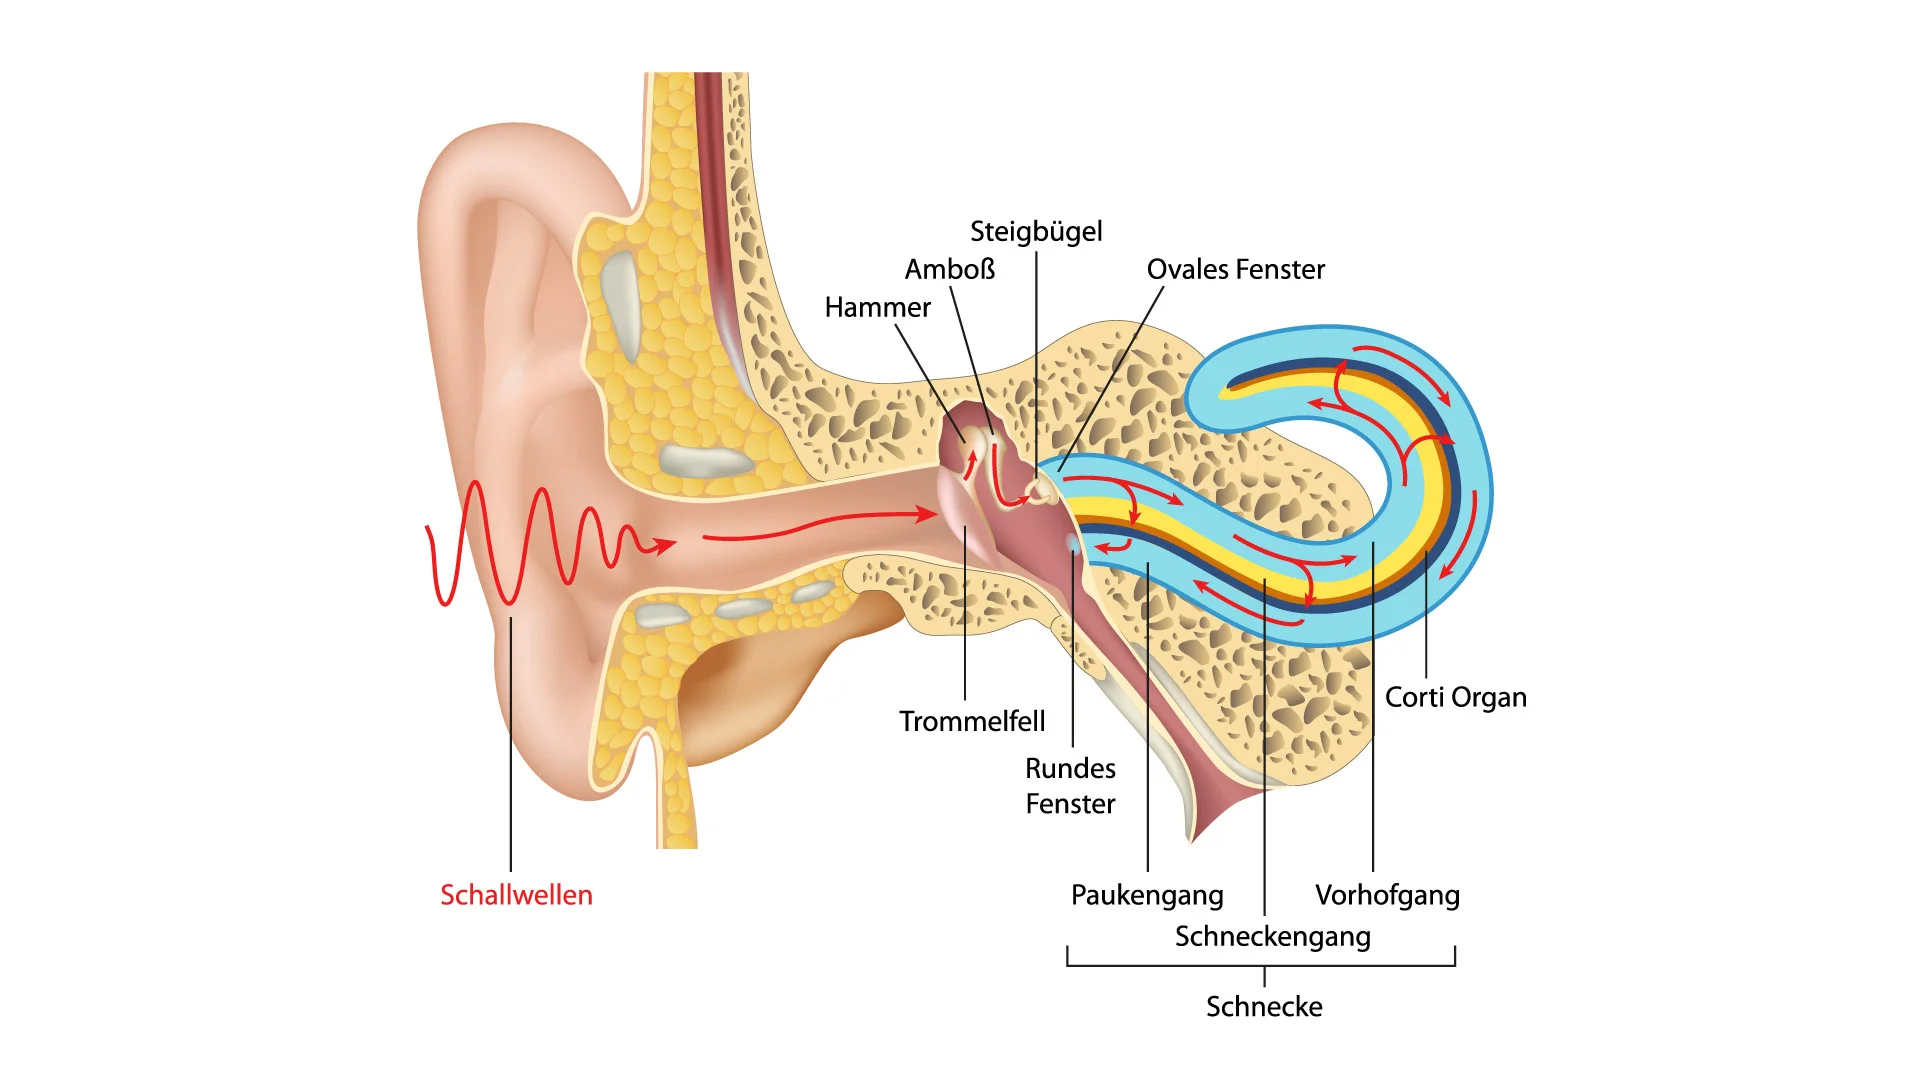
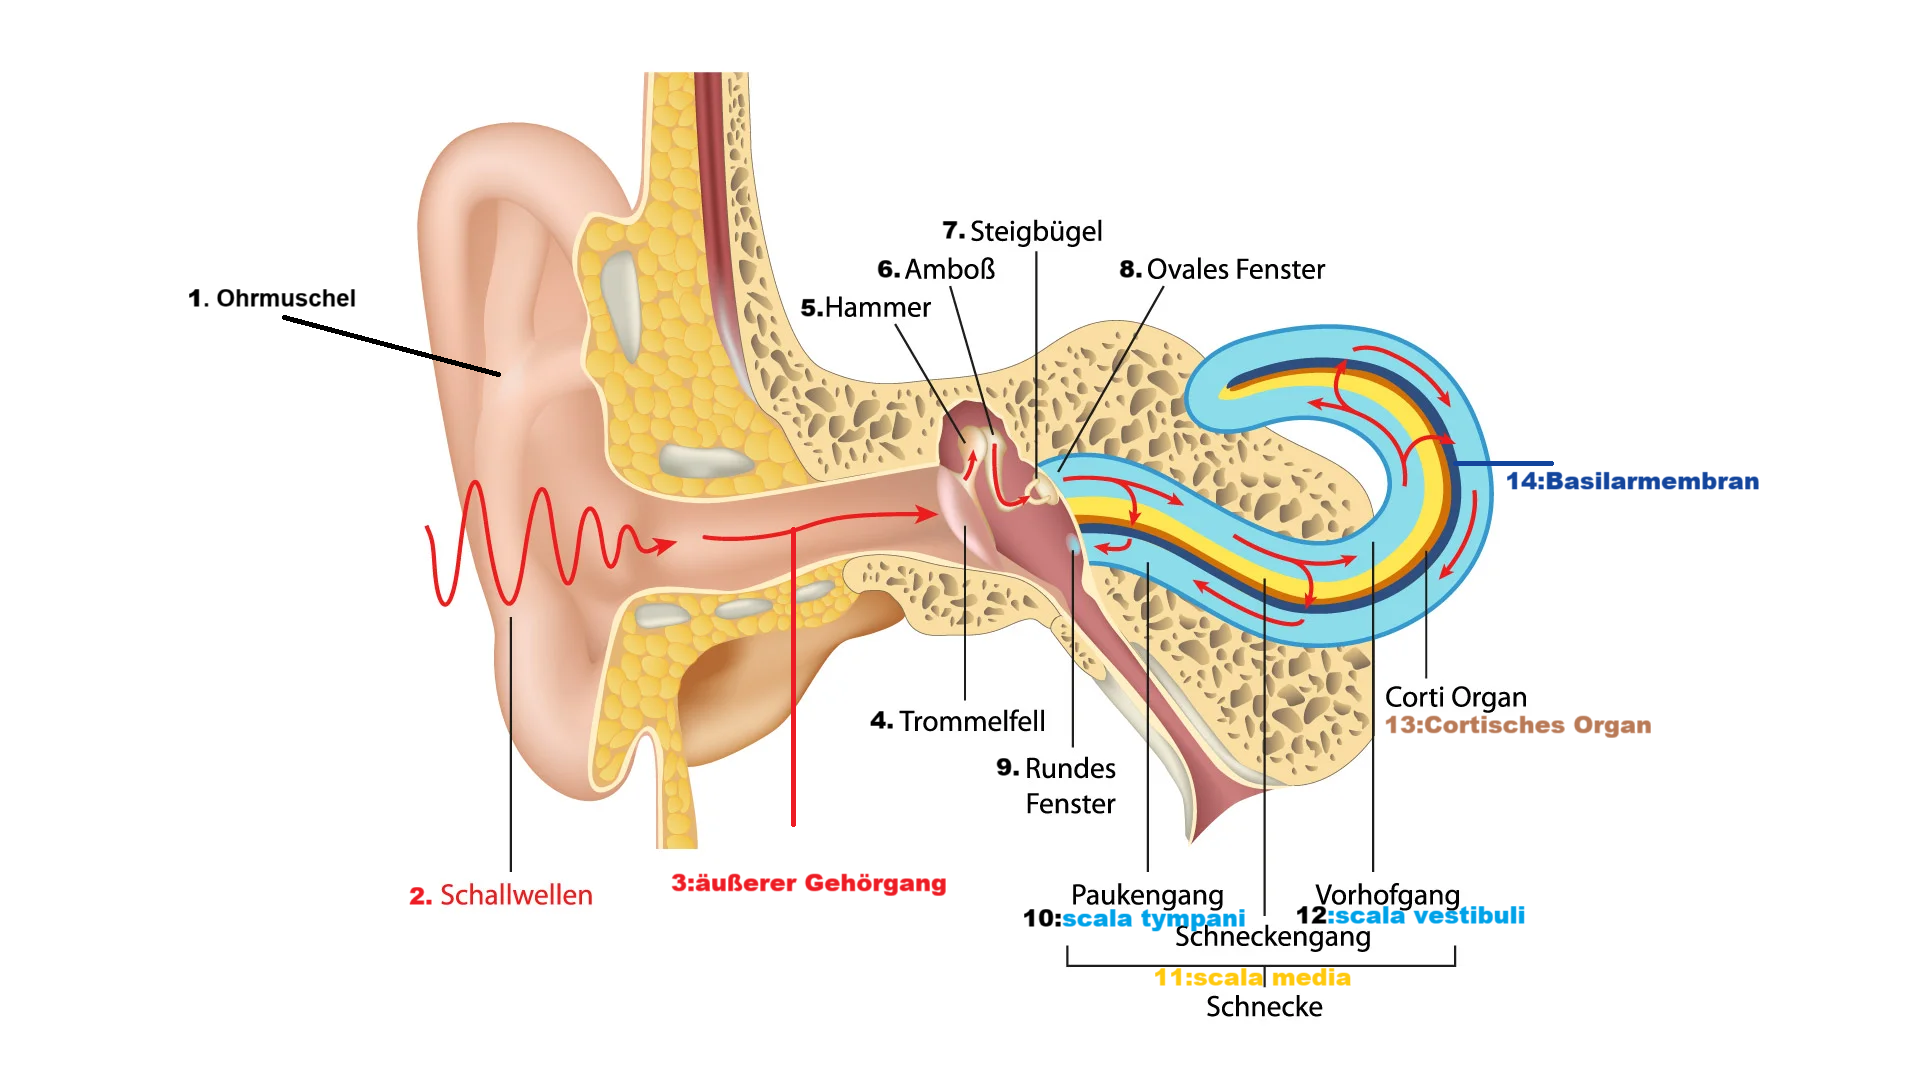
adding pics, index and reference

diff --git a/pages/04_Quiz_Konsonanten_Merkmalmatrix.py b/pages/04_Quiz_Konsonanten_Merkmalmatrix.py
@@ -7,8 +7,7 @@ import pandas as pd
 st.sidebar.header("Benutzerdefinierte Symbole")
 symbol_correct = st.sidebar.text_input("Symbol für korrekt", value="t")
 symbol_wrong = st.sidebar.text_input("Symbol für falsch", value="f")
-symbol_check = st.sidebar.text_input("Symbol für Häkchen", value="1")
-symbol_empty = st.sidebar.text_input("Standardsymbol für leer", value="0")
+symbol_empty = st.sidebar.text_input("Standardsymbol für leer", value="--")
 symbol_unknown = st.sidebar.text_input("Platzhalter für unvollständig", value="?")
 symbol_wrong_mark = st.sidebar.text_input("Präfix zur Fehleranzeige", value="❌")
 
@@ -26,7 +25,9 @@ data_kons = pd.DataFrame(symbol_empty, index=features_kons, columns=columns_kons
 # ==========================
 for pair in [('p', 'b'), ('t', 'd'), ('k', 'g'), ('', 'm'), ('', 'n'), ('', 'ŋ'),
              ('f', 'v'), ('s', 'z'), ('ʃ', 'ʒ'), ('ç', ''), ('', 'R'), ('', 'l')]:
-    data_kons.loc['[±kons]', pair] = symbol_correct
+    data_kons.loc['[±kons]', pair] = symbol_correct 
+data_kons.loc['[±kons]',('h', '')] = symbol_wrong
+data_kons.loc['[±kons]',('', 'j')] = symbol_wrong
 for pair in [('', 'm'), ('', 'n'), ('', 'ŋ'), ('', 'R'), ('', 'j'), ('', 'l')]:
     data_kons.loc['[±son]', pair] = symbol_correct
 for pair in [('f', 'v'), ('s', 'z'), ('ʃ', 'ʒ'), ('ç', ''), ('', 'R'), ('h', ''), ('', 'j')]:
@@ -34,13 +35,13 @@ for pair in [('f', 'v'), ('s', 'z'), ('ʃ', 'ʒ'), ('ç', ''), ('', 'R'), ('h', 
 for pair in [('', 'm'), ('', 'n'), ('', 'ŋ')]:
     data_kons.loc['[±nas]', pair] = symbol_correct
 for pair in [('p', 'b'), ('', 'm'), ('f', 'v')]:
-    data_kons.loc['[LAB]', pair] = symbol_check
+    data_kons.loc['[LAB]', pair] = symbol_correct
 for pair in [('t', 'd'), ('', 'n'), ('s', 'z'), ('ʃ', 'ʒ'), ('', 'j'), ('', 'l')]:
-    data_kons.loc['[KOR]', pair] = symbol_check
+    data_kons.loc['[KOR]', pair] = symbol_correct
 data_kons.loc['[±ant]', ('s', 'z')] = symbol_correct
 data_kons.loc['[±ant]', ('ʃ', 'ʒ')] = symbol_wrong
 for pair in [('k', 'g'), ('', 'ŋ'), ('ç', ''), ('', 'R')]:
-    data_kons.loc['[DOR]', pair] = symbol_check
+    data_kons.loc['[DOR]', pair] = symbol_correct
 
 # ==========================
 # Umwandlung in einfache Spaltennamen
@@ -82,3 +83,7 @@ if st.button("Antworten einreichen und bewerten"):
     
     st.subheader("Ihre Eingaben (falsche Einträge markiert):")
     st.dataframe(feedback_df, use_container_width=True)
+
+    st.subheader("✅Correct answer:")
+    st.dataframe(correct, use_container_width=True)
+

diff --git a/pages/05_Quiz_Mund_Anatomie.py b/pages/05_Quiz_Mund_Anatomie.py
@@ -1,0 +1,73 @@
+import streamlit as st
+from PIL import Image
+
+# 题库示例，每题有独立的图片路径和答案
+questions = [
+    {
+        "desc": "Benennen Sie die im Bild hervorgehobenen Sprechorgane.",
+        "image_path": "anotomy_img/lips.png",
+        "answer": "Lippen",
+        "explanation": [
+            "Die Lippen formen Laute durch Öffnen, Schließen oder Runden.",
+            "Bilabial: [p], [b], [m]",
+            "Labiodental: [f], [v]",
+            "Runden: [y], [ʏ], [ø], [œ], [o], [ɔ], [u], [ʊ]"
+        ]
+    },
+    {
+        "desc": "Benennen Sie die im Bild hervorgehobenen Sprechorgane",
+        "image_path": "anotomy_img/teeth.png",
+        "answer": "Zähne",
+        "explanation": [
+            "Die oberen Schneidezähne helfen bei Reiblauten.",
+            "Labiodental: [f], [v]",
+        ]
+    },
+    {
+        "desc": "Benennen Sie die im Bild hervorgehobenen Sprechorgane",
+        "image_path": "anotomy_img/tongue-tip-apex.png",
+        "answer": "Zungenspitze",
+        "explanation": [
+            "Die Zungenspitze berührt oder nähert sich anderen Artikulatoren.",
+            "Alveolar: [t], [d], [n], [l], [s], [z]",
+            "Post-Alveolar: [ʃ], [ʒ]",
+        ]
+    },
+    {
+        "desc": "Benennen Sie die im Bild hervorgehobenen Sprechorgane",
+        "image_path": "anotomy_img/tongue-back.png",
+        "answer": "Zungenrücken",
+        "explanation": [
+            "Der Zungenrücken artikuliert mit dem Gaumen oder Velum.",
+            "Palatal: [ç], [j]",
+            "Velar: [k], [g], [ŋ], [x]"
+        ]
+    },
+    # 可继续添加更多题目...
+]
+
+st.title("📝 Lückentext Quiz mit Bildern")
+st.markdown("##### ä, ö, ü, ß")
+# 选择题目
+q_index = st.selectbox("Wähle eine Frage", range(len(questions)), format_func=lambda x: f"Frage {x+1}")
+
+q = questions[q_index]
+
+# 显示题目描述和对应的图片
+st.write(q["desc"])
+image = Image.open(q["image_path"])
+st.image(image, use_container_width=True)
+
+# 填空输入
+user_answer = st.text_input("Ihre Antwort:")
+
+# 提交按钮
+if st.button("Antwort prüfen"):
+    if user_answer.strip().lower() == q["answer"].lower():
+        st.success("✅ Richtig!")
+    else:
+        st.error(f"❌ Falsch! Die richtige Antwort ist: {q['answer']}")
+
+    # 显示解释
+    with st.expander("Erklärung"):
+        st.write(q["explanation"])

diff --git a/pages/0_Referenz.py b/pages/0_Referenz.py
@@ -154,3 +154,24 @@ for v in short_vowels:
 st.subheader("Vokalen")
 st.dataframe(df_vokal, use_container_width=True)
 
+# 原始 IPA 表格数据
+data_de_ipa = {
+    "Artikulationsart/-ort": ["Plosive", "Nasal", "Trill", "Tap or Flap",
+                              "Fricative", "Lateral Frikative", "Approximant", "Lateral Approximant"],
+    "Bilabial": ["p || b", "m", "", "", "", "", "", ""],
+    "Labiodental": ["", "", "", "", "f || v", "", "", ""],
+    "Dental": ["", "", "", "", "", "", "", ""],
+    "Alveolar": ["t || d", "n", "", "", "s | z", "", "", "l"],
+    "Post_alveolar": ["", "", "", "", "ʃ || ʒ", "", "", ""],
+    "Retroflex": ["", "", "", "", "", "", "", ""],
+    "Palatal": ["", "", "", "", "ç", "", "j", ""],
+    "Velar": ["k || g", "ŋ", "", "", "x", "", "", ""],
+    "Uvular": ["", "", "", "", "ʁ", "", "", ""],
+    "Pharyngeal": ["", "", "", "", "", "", "", ""],
+    "Glottal": ["ʔ", "", "", "", "h", "", "", ""],
+}
+
+# 转为 DataFrame
+df_ipa = pd.DataFrame(data_de_ipa)
+st.subheader("IPA Chart(DE)")
+st.dataframe(df_ipa, use_container_width=True)

diff --git a/pages/06_Quiz_Ohr_Anatomie.py b/pages/06_Quiz_Ohr_Anatomie.py
@@ -2,10 +2,12 @@ import streamlit as st
 from PIL import Image
 
 # 1. 显示图像
-st.title("🔍 Lückentext: Beschriften Sie das Bild")
+st.title("🔍Lückentext: Beschrift das Bild")
 
 image = Image.open("anotomy_img/ohr_clear.png")  # 替换为你图片的路径
 st.image(image, caption="Bitte füllen Sie die Nummern 1 bis 14 aus", use_container_width=True)
+st.markdown("##### 1.not case senstive; 2.10, 11, 12 are latin; 3.feel free to use: ä, ö, ü, ß")
+
 
 # 2. 标准答案（按编号排列）
 correct_answers = [
@@ -49,3 +51,7 @@ if submitted:
     st.subheader(f"🎯 Ergebnis: {score}/14 korrekt")
     for f in feedback:
         st.write(f)
+
+    image_a = Image.open("anotomy_img/ohr.png")
+    with st.expander("check image with answers: "):
+        st.image(image_a, caption="Ohr Anatimie", use_container_width=True)    

diff --git a/Homepage.py b/Homepage.py
@@ -19,3 +19,21 @@ data_de = {
 df_de = pd.DataFrame(data_de)
 st.set_page_config(layout="wide")
 st.markdown("### IPA Consonant Chart (DE)")
+
+
+st.title("📚Homepage and Index of Phonetic knowledge and Quizzes")
+
+pages = [
+    (0, "Referenz", "all necessary tables and anotomy images"),
+    (1, "Quiz_IPA_Chart", "IPA chart, gab fill, symbols only in german"),
+    (2, "Quiz_Merkmale_Vokal", "quiz of Vokal Merkmale table"),
+    (3, "Quiz_Merkmale_Konsonant", "quiz of Konsonant Merkmale table"),
+    (4, "Quiz_Konsonanten_Merkmalmatrix", "gap filling of Konsonant Merkmale table"),
+]
+
+st.write("here is index and short introduction of each page")
+
+for num, title, desc in pages:
+    st.markdown(f"**{num}. [{title}](./{title})**")
+    st.write(f"   - {desc}")
+    st.markdown("---")

diff --git a/pages/07_Transcription.py b/pages/07_Transcription.py
@@ -42,7 +42,7 @@ def get_german_word_info(word):
 
 st.title("📖 check transcription")
 
-word = st.text_input("🔤 enter german word:")
+word = st.text_input("please enter german word: case sensitive")
 
 if word:
     with st.spinner("🔍 searching..."):
